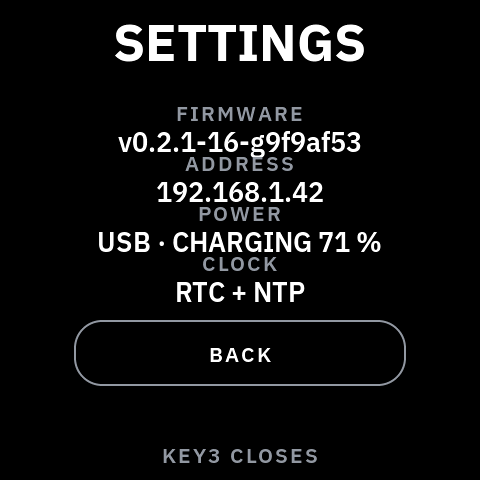
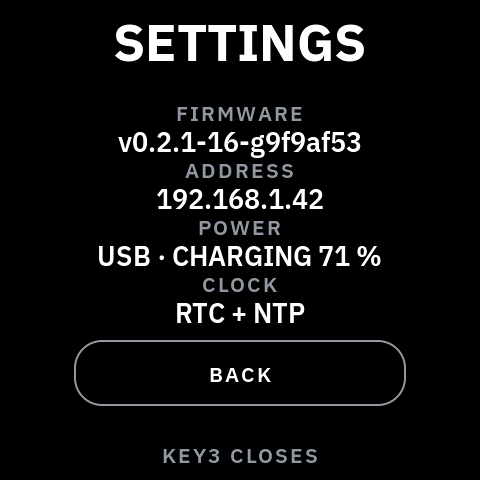
Widen the ABOUT line gap to clear FIRMWARE's descender
The measured captures showed the git-describe value's lowercase "g"
touching the ADDRESS label below it at lineGap 50; 57 is the smallest
gap that opens that to >= 6 px, so backY, the pinned doc frame and the
landmark crops all move with it.

Changed region(s): [[0.1562, 0.3125, 0.8438, 0.8438], [0.1875, 0.4688, 0.3125, 0.5625]]

diff --git a/test/test_vibepulse_visual_landmarks.py b/test/test_vibepulse_visual_landmarks.py
@@ -843,20 +843,28 @@ class VibePulseVisualLandmarkTests(unittest.TestCase):
         fabricated 0.0.0.0."""
         found = self.image("torget-settings-about-found.bmp")
         missing = self.image("torget-settings-about-missing.bmp")
-        # ADDRESS value row (design: firstLineY 100 + lineGap 50 + 24).
+        # ADDRESS value row (design: firstLineY 100 + lineGap 57 + 24 = 181).
+        # lineGap is 57, not the round 50 first tried: FIRMWARE's value is a
+        # git-describe string ("v...-g<hash>") whose lowercase "g" descender
+        # measured 0-5 px clear of the ADDRESS label below it at lineGap 50-56
+        # (checked with the actual simulator capture, not just the nominal
+        # box math) — 57 is the smallest integer that opens that to >= 6 px.
+        # The crop still ends at +32 (a value line's height, same margin as
+        # before) and stays clear of the POWER label that starts at
+        # 100 + 2*57 = 214.
         found_ink = sum(p != (0, 0, 0) for p in
-                        found.crop((74, 174, 406, 206)).get_flattened_data())
+                        found.crop((74, 181, 406, 213)).get_flattened_data())
         missing_ink = sum(p != (0, 0, 0) for p in
-                          missing.crop((74, 174, 406, 206)).get_flattened_data())
+                          missing.crop((74, 181, 406, 213)).get_flattened_data())
         self.assertGreater(found_ink, 400, "a known address must be drawn")
         self.assertGreater(missing_ink, 0, "a missing address must draw a dash")
         self.assertLess(missing_ink, found_ink // 3,
                         "the dash must be far less ink than an address")
         # BACK clears the values: the band just above it stays black.
-        # (design: last value ends 100 + 3*50 + 24 + 27 = 301, backY 320.)
+        # (design: last value ends 100 + 3*57 + 24 + 27 = 322, backY 340.)
         for image in (found, missing):
             with self.subTest(image=image):
-                gap = image.crop((74, 304, 406, 318))
+                gap = image.crop((74, 325, 406, 338))
                 self.assertTrue(
                     all(p == (0, 0, 0) for p in gap.get_flattened_data()),
                     "the last value must clear the BACK control")

diff --git a/platform/settings_menu.c b/platform/settings_menu.c
@@ -44,8 +44,8 @@ extern const lv_font_t plex_ui_21;
 #define SETTINGS_FOOTER_Y       442
 
 #define SETTINGS_ABOUT_FIRST_LINE_Y 100
-#define SETTINGS_ABOUT_LINE_GAP     50
-#define SETTINGS_ABOUT_BACK_Y       320
+#define SETTINGS_ABOUT_LINE_GAP     57
+#define SETTINGS_ABOUT_BACK_Y       340
 
 #define ABOUT_VALUE_CAP 40
 #define ABOUT_ROWS 4

diff --git a/docs/superpowers/specs/2026-09-24-battery-badge-and-rtc-night-dim-design.md b/docs/superpowers/specs/2026-09-24-battery-badge-and-rtc-night-dim-design.md
@@ -187,7 +187,10 @@ is the last physical step below and the reason for the option.
     `NO BATTERY`
   - `CLOCK`: `RTC + NTP`, `RTC ONLY`, `NTP ONLY`, `NOT SET`
   Four rows plus BACK fit by reducing `SETTINGS_ABOUT_LINE_GAP` from 62 to
-  50 px; the simulator frame is the review artifact before any flash.
+  57 px (not the rounder 50: FIRMWARE's git-describe value has a lowercase
+  "g" descender that the simulator capture showed touching the ADDRESS
+  label below it at 50-56 px — 57 is the smallest gap that clears it by
+  >= 6 px); the simulator frame is the review artifact before any flash.
 - **LABS** gains `NIGHT DIM` in the same list as the other switches.
 
 Out of scope, deliberately: a settings page for the schedule, battery
